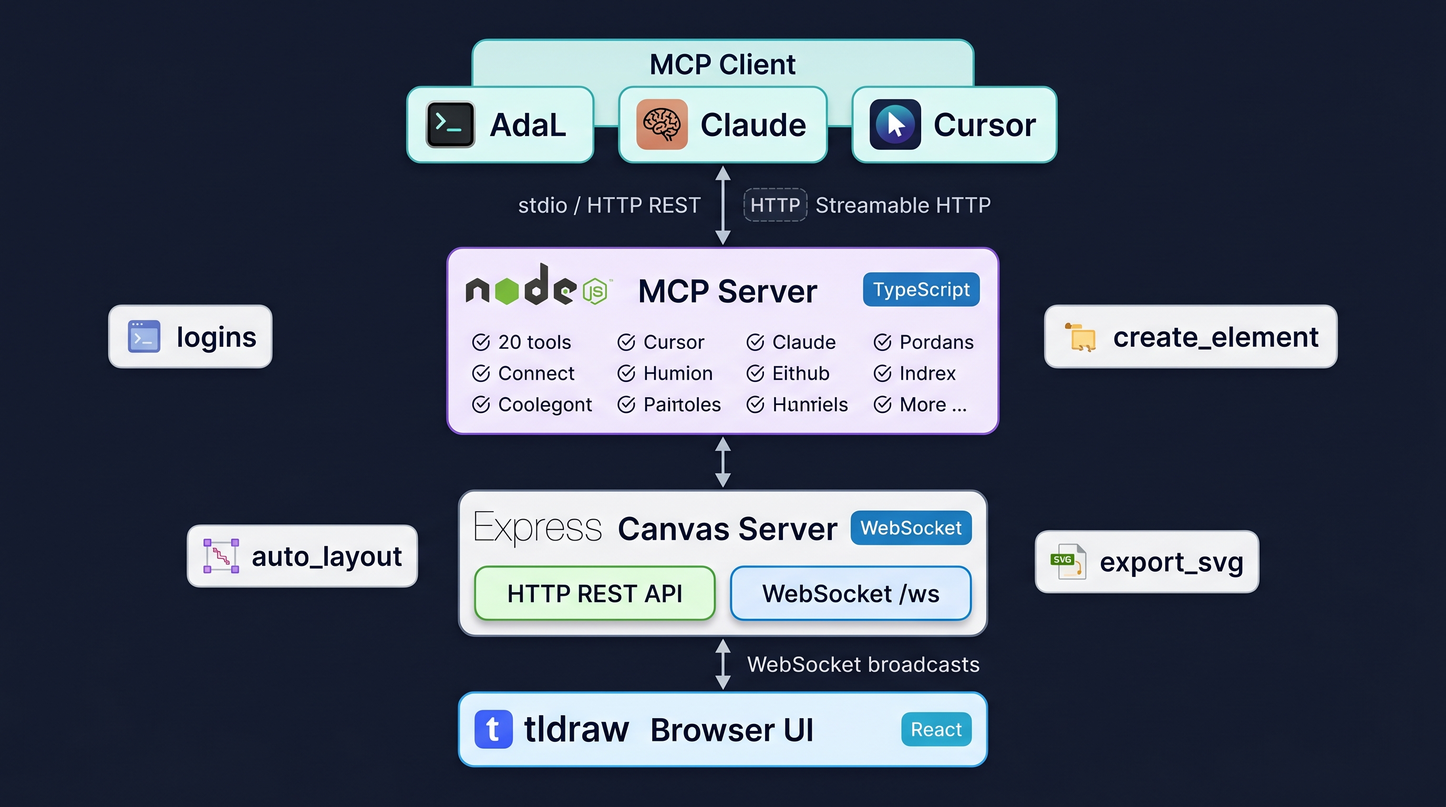
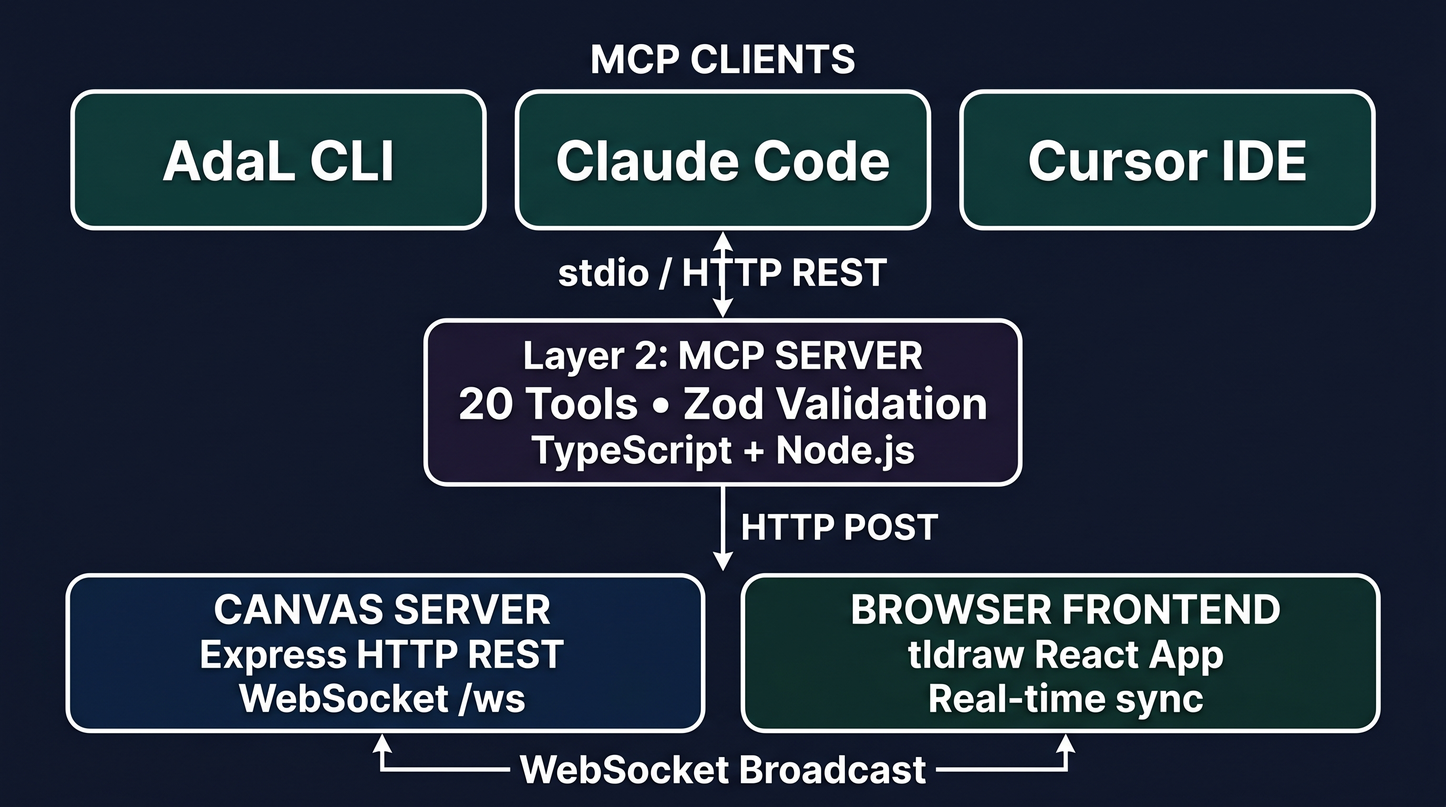
feat: server-side PNG export (no browser required)
- Add exportPng() to src/export/svg.ts using headless Playwright
- Update /api/export/image to try server-side SVG+Playwright first,
  falling back to browser WebSocket only if Playwright fails
- get_canvas_screenshot now works even when no browser is open
- Add assets/media_assets.json to .gitignore
- Regenerate architecture diagram with white text for readability
- Fix CI badge URL to use correct repo owner (Mihai-Codes)

diff --git a/src/export/svg.ts b/src/export/svg.ts
@@ -1,5 +1,7 @@
 import type { CanvasElement } from '../types.js'
 
+const PLAYWRIGHT_TIMEOUT = 15_000
+
 const SVG_NS = 'http://www.w3.org/2000/svg'
 
 const COLOR_MAP: Record<string, string> = {
@@ -228,4 +230,46 @@ export function generateSvg(elements: CanvasElement[], background = true): strin
     ${texts.join('\n    ')}
   </g>
 </svg>`
+}
+
+/**
+ * Server-side PNG export using Playwright.
+ * Works without a browser open — uses the SVG generator + headless Chromium.
+ */
+export async function exportPng(elements: CanvasElement[], background = true): Promise<{ data: string; format: string }> {
+  const svg = generateSvg(elements, background)
+
+  let playwright: typeof import('playwright') | null = null
+  try {
+    playwright = await import('playwright')
+  } catch {
+    throw new Error(
+      'Playwright is not installed. Install it with: npm install playwright && npx playwright install chromium'
+    )
+  }
+
+  const browser = await playwright.chromium.launch({ headless: true })
+  try {
+    const page = await browser.newPage()
+
+    const html = `<!DOCTYPE html>
+<html>
+<head>
+<style>
+  * { margin: 0; padding: 0; box-sizing: border-box; }
+  body { background: ${background ? '#ffffff' : 'transparent'}; }
+  svg { display: block; }
+</style>
+</head>
+<body>${svg}</body>
+</html>`
+
+    await page.setContent(html, { waitUntil: 'networkidle' })
+    await page.evaluate(() => document.fonts.ready)
+
+    const data = await page.screenshot({ type: 'png' })
+    return { data: Buffer.from(data).toString('base64'), format: 'png' }
+  } finally {
+    await browser.close()
+  }
 }

diff --git a/src/canvas-server.ts b/src/canvas-server.ts
@@ -428,10 +428,29 @@ app.post('/api/viewport', (req: Request, res: Response) => {
 app.post('/api/export/image', async (req: Request, res: Response) => {
   const { format = 'png', background = true } = req.body as { format?: 'png' | 'svg'; background?: boolean }
   try {
-    const result = await requestScreenshot(format, background)
-    res.json({ success: true, format: result.format, data: result.data })
+    // Prefer server-side SVG generator + Playwright (no browser needed)
+    if (format === 'png' || format === 'svg') {
+      const { exportPng, generateSvg } = require('../export/svg.js')
+      const allElements = Array.from(elements.values())
+      if (format === 'svg') {
+        const svg = generateSvg(allElements, background)
+        res.json({ success: true, format: 'svg', data: svg })
+      } else {
+        const result = await exportPng(allElements, background)
+        res.json({ success: true, format: 'png', data: result.data })
+      }
+      return
+    }
   } catch (err) {
-    res.status(503).json({ success: false, error: (err as Error).message } satisfies ApiResponse)
+    // Fall back to browser-based screenshot if server-side fails
+    console.warn('Server-side export failed, falling back to browser:', err)
+    try {
+      const result = await requestScreenshot(format, background)
+      res.json({ success: true, format: result.format, data: result.data })
+    } catch (fallbackErr) {
+      res.status(503).json({ success: false, error: (fallbackErr as Error).message } satisfies ApiResponse)
+    }
+    return
   }
 })
 

diff --git a/README.md b/README.md
@@ -6,7 +6,7 @@
 
 > Programmatic canvas toolkit for AI agents — create, read, update, and delete tldraw shapes in real time via the Model Context Protocol.
 
-[![CI](https://github.com/chindris-mihai-alexandru/tldraw-mcp-server/actions/workflows/ci.yml/badge.svg)](https://github.com/chindris-mihai-alexandru/tldraw-mcp-server/actions/workflows/ci.yml)
+[![CI](https://github.com/Mihai-Codes/tldraw-mcp-server/actions/workflows/ci.yml/badge.svg)](https://github.com/Mihai-Codes/tldraw-mcp-server/actions/workflows/ci.yml)
 [![Node.js](https://img.shields.io/badge/Node.js-18%2B-339933?logo=node.js&logoColor=white)](https://nodejs.org/)
 [![TypeScript](https://img.shields.io/badge/TypeScript-5.6-3178C6?logo=typescript&logoColor=white)](https://www.typescriptlang.org/)
 [![React](https://img.shields.io/badge/React-19-61DAFB?logo=react&logoColor=black)](https://react.dev/)
